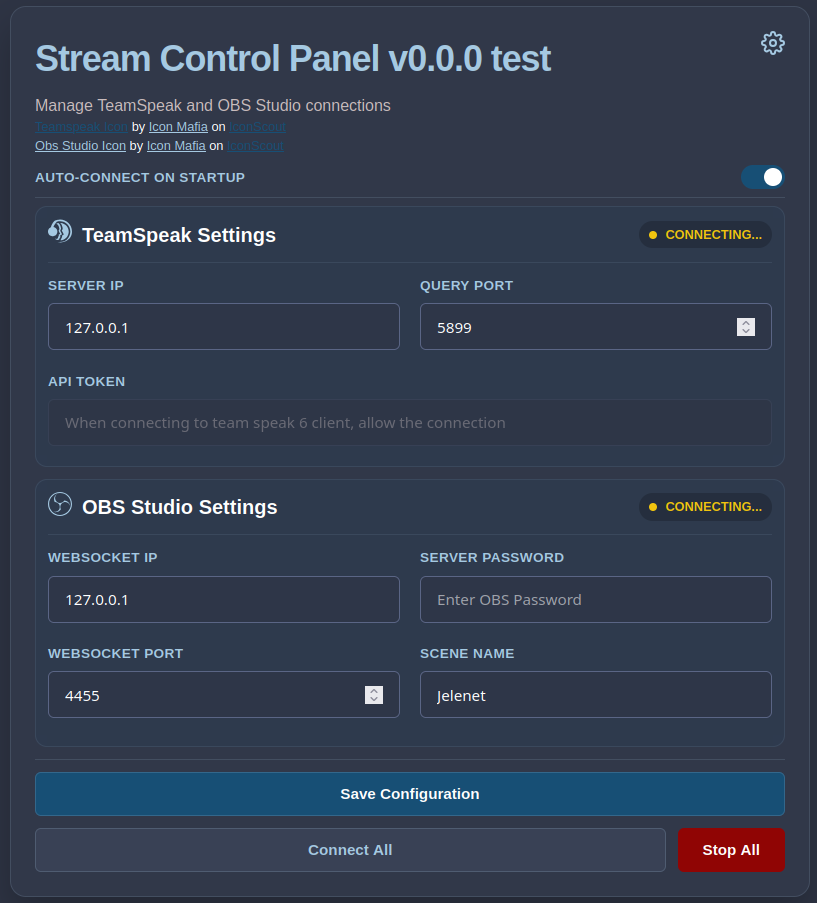
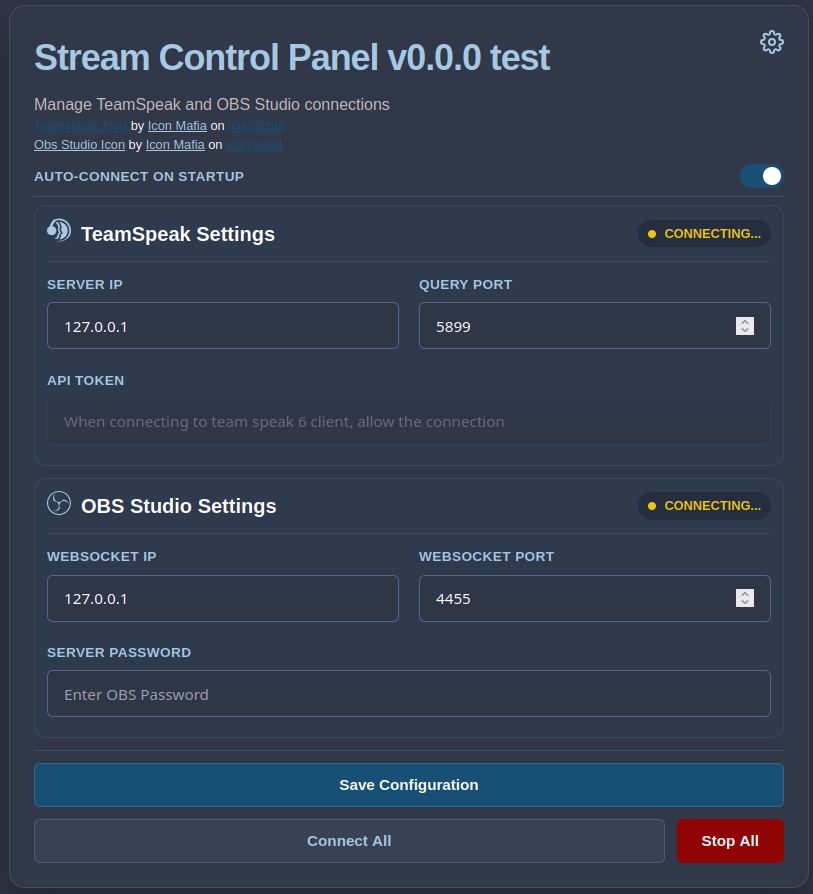
Removed unneeded scene name from the OBS settings

diff --git a/src/modules/WebUI/templates/index.html b/src/modules/WebUI/templates/index.html
@@ -71,7 +71,7 @@
             <section class="config-section">
                 <div class="section-title-container">
                     <div class="section-title">
-                        <a href="/obs", target="_blank">
+                        <a href="/obs" target="_blank">
                             <svg class="icon" xmlns="http://www.w3.org/2000/svg">
                                 <path fill="currentColor" d="M12,24C5.383,24,0,18.617,0,12S5.383,0,12,0s12,5.383,12,12S18.617,24,12,24z M12,1.109 C5.995,1.109,1.11,5.995,1.11,12C1.11,18.005,5.995,22.89,12,22.89S22.89,18.005,22.89,12C22.89,5.995,18.005,1.109,12,1.109z M6.182,5.99c0.352-1.698,1.503-3.229,3.05-3.996c-0.269,0.273-0.595,0.483-0.844,0.78c-1.02,1.1-1.48,2.692-1.199,4.156 c0.355,2.235,2.455,4.06,4.732,4.028c1.765,0.079,3.485-0.937,4.348-2.468c1.848,0.063,3.645,1.017,4.7,2.548 c0.54,0.799,0.962,1.736,0.991,2.711c-0.342-1.295-1.202-2.446-2.375-3.095c-1.135-0.639-2.529-0.802-3.772-0.425 c-1.56,0.448-2.849,1.723-3.293,3.293c-0.377,1.25-0.216,2.628,0.377,3.772c-0.825,1.429-2.315,2.449-3.932,2.756 c-1.244,0.261-2.551,0.059-3.709-0.464c1.036,0.302,2.161,0.355,3.191-0.011c1.381-0.457,2.522-1.567,3.024-2.935 c0.556-1.49,0.345-3.261-0.591-4.54c-0.7-1.007-1.803-1.717-3.002-1.969c-0.38-0.068-0.764-0.098-1.148-0.134 c-0.611-1.231-0.834-2.66-0.528-3.996L6.182,5.99z"></path>
                             </svg>
@@ -85,28 +85,17 @@
                 </div>
 
                 <div class="form-grid">
-                    <div class="form-grid">
-                        <div class="form-group">
-                            <label for="obs_ip">WebSocket IP</label>
-                            <input type="text" id="obs_ip" name="obs_ip" placeholder="127.0.0.1" class="form-input">
-                        </div>
-
-                        <div class="form-group">
-                            <label for="obs_port">WebSocket Port</label>
-                            <input type="number" id="obs_port" name="obs_port" placeholder="4455" class="form-input">
-                        </div>
+                    <div class="form-group">
+                        <label for="obs_ip">WebSocket IP</label>
+                        <input type="text" id="obs_ip" name="obs_ip" placeholder="127.0.0.1" class="form-input">
                     </div>
-
-                    <div class="form-grid">
-                        <div class="form-group">
-                            <label for="obs_password">Server Password</label>
-                            <input type="password" id="obs_password" name="obs_password" placeholder="Enter OBS Password" class="form-input">
-                        </div>
-
-                        <div class="form-group">
-                            <label for="obs_scene">Scene Name</label>
-                            <input type="text" id="obs_scene" name="obs_scene" placeholder="Scene" class="form-input">
-                        </div>
+                    <div class="form-group">
+                        <label for="obs_port">WebSocket Port</label>
+                        <input type="number" id="obs_port" name="obs_port" placeholder="4455" class="form-input">
+                    </div>
+                    <div class="form-group full-width">
+                        <label for="obs_password">Server Password</label>
+                        <input type="password" id="obs_password" name="obs_password" placeholder="Enter OBS Password" class="form-input">
                     </div>
                 </div>
             </section>

diff --git a/src/modules/WebUI/static/script.js b/src/modules/WebUI/static/script.js
@@ -53,7 +53,7 @@ async function loadSettings() {
 
     const fields = [
         'teamspeak_ip', 'teamspeak_port', 'teamspeak_api',
-        'obs_ip', 'obs_port', 'obs_password', 'obs_scene'
+        'obs_ip', 'obs_port', 'obs_password'
     ];
 
     fields.forEach(fieldId => {
@@ -81,11 +81,9 @@ async function saveSettings() {
     const payload = {
         teamspeak_ip: document.getElementById('teamspeak_ip').value || document.getElementById('teamspeak_ip').placeholder,
         teamspeak_port: parseInt(document.getElementById('teamspeak_port').value || document.getElementById('teamspeak_port').placeholder, 10),
-        teamspeak_api: document.getElementById('teamspeak_api').value,
         obs_ip: document.getElementById('obs_ip').value || document.getElementById('obs_ip').placeholder,
         obs_port: parseInt(document.getElementById('obs_port').value || document.getElementById('obs_port').placeholder, 10),
         obs_password: document.getElementById('obs_password').value,
-        obs_scene: document.getElementById('obs_scene').value,
         autoconnect: document.getElementById('autoconnect').checked
     };
 

diff --git a/src/modules/Database.py b/src/modules/Database.py
@@ -6,7 +6,7 @@ from . import Settings
 class Database(DBManager):
     @property
     def current_version(self) -> Version:
-        return Version(0, 0, 3)
+        return Version(0, 0, 4)
 
     @DBManager.async_database_safe
     @DBManager.async_during_init
@@ -21,7 +21,7 @@ class Database(DBManager):
                 )
                 await self.db.commit()
                 version = Version(0, 0, 2)
-            elif version == Version(0, 0, 2):
+            if version == Version(0, 0, 2):
                 await self.db.execute(
                     """ALTER TABLE settings ADD COLUMN host TEXT DEFAULT '127.0.0.1';"""
                 )
@@ -30,6 +30,12 @@ class Database(DBManager):
                 )
                 await self.db.commit()
                 version = Version(0, 0, 3)
+            if version == Version(0, 0, 3):
+                await self.db.execute(
+                    """ALTER TABLE settings DROP COLUMN obs_scene"""
+                )
+                await self.db.commit()
+                version = Version(0, 0, 4)
         return True
 
     @DBManager.async_database_safe
@@ -46,7 +52,6 @@ class Database(DBManager):
                 obs_ip TEXT NOT NULL UNIQUE,
                 obs_port INTEGER NOT NULL,
                 obs_password TEXT NOT NULL,
-                obs_scene TEXT NOT NULL,
                 autoconnect INTEGER DEFAULT 0,
                 host TEXT DEFAULT '127.0.0.1',
                 port INTEGER DEFAULT 12345
@@ -60,7 +65,7 @@ class Database(DBManager):
     @DBManager.async_timed
     async def get_settings(self) -> Settings | None:
         result = await self.db.execute_fetchall(
-            f"""SELECT teamspeak_ip, teamspeak_port, teamspeak_api, obs_ip, obs_port, obs_password, obs_scene, autoconnect, host, port FROM settings"""
+            f"""SELECT teamspeak_ip, teamspeak_port, teamspeak_api, obs_ip, obs_port, obs_password, autoconnect, host, port FROM settings"""
         )
         if len(result) == 0: return None
         return Settings(
@@ -70,18 +75,17 @@ class Database(DBManager):
             obs_ip=result[0][3],
             obs_port=result[0][4],
             obs_password=result[0][5],
-            obs_scene=result[0][6],
-            autoconnect=result[0][7],
-            host=result[0][8],
-            port=result[0][9]
+            autoconnect=result[0][6],
+            host=result[0][7],
+            port=result[0][8]
         )
 
     @DBManager.async_database_safe
     @DBManager.async_timed
     async def upsert_settings(self, settings: Settings) -> bool:
         await self.db.execute(
-            f"""INSERT OR REPLACE INTO settings (teamspeak_ip, teamspeak_port, teamspeak_api, obs_ip, obs_port, obs_password, obs_scene, autoconnect, host, port)
-            VALUES (?, ?, ?, ?, ?, ?, ?, ?, ?, ?)
+            f"""INSERT OR REPLACE INTO settings (teamspeak_ip, teamspeak_port, teamspeak_api, obs_ip, obs_port, obs_password, autoconnect, host, port)
+            VALUES (?, ?, ?, ?, ?, ?, ?, ?, ?)
             """,
             (
                 settings.teamspeak_ip,
@@ -90,7 +94,6 @@ class Database(DBManager):
                 settings.obs_ip,
                 settings.obs_port,
                 settings.obs_password,
-                settings.obs_scene,
                 settings.autoconnect,
                 settings.host,
                 settings.port

diff --git a/src/modules/Settings.py b/src/modules/Settings.py
@@ -10,7 +10,6 @@ class Settings:
     obs_ip: str
     obs_port: int
     obs_password: str
-    obs_scene: str
     autoconnect: bool
     host: str
     port: int
@@ -24,7 +23,6 @@ class Settings:
             obs_ip = json["obs_ip"],
             obs_port = json["obs_port"],
             obs_password = json["obs_password"],
-            obs_scene = json["obs_scene"],
             autoconnect= bool(json.get("autoconnect", 0)),
             host=json.get("host", "127.0.0.1"),
             port=json.get("port", 12345)
@@ -38,7 +36,6 @@ class Settings:
             "obs_ip" : self.obs_ip,
             "obs_port" : self.obs_port,
             "obs_password" : self.obs_password,
-            "obs_scene" : self.obs_scene,
             "autoconnect" : self.autoconnect,
             "host": self.host,
             "port": self.port
@@ -51,9 +48,8 @@ class Settings:
             self.teamspeak_api != other.teamspeak_api,
             self.obs_ip != other.obs_ip or
             self.obs_port != other.obs_port or
-            self.obs_password != other.obs_password or
-            self.obs_scene != other.obs_scene
+            self.obs_password != other.obs_password
         )
 
     def __str__(self) -> str:
-        return f"Settings[teamspeak_ip: {self.teamspeak_ip} teamspeak_port: {self.teamspeak_port} teamspeak_api: {self.teamspeak_api} obs_ip: {self.obs_ip} obs_port: {self.obs_port} obs_password: {self.obs_password} obs_scene: {self.obs_scene} autoconnect: {self.autoconnect}, host: {self.host}, port: {self.port}]"
+        return f"Settings[teamspeak_ip: {self.teamspeak_ip} teamspeak_port: {self.teamspeak_port} teamspeak_api: {self.teamspeak_api} obs_ip: {self.obs_ip} obs_port: {self.obs_port} obs_password: {self.obs_password} autoconnect: {self.autoconnect} host: {self.host} port: {self.port}]"

diff --git a/src/modules/OBS/OBSConnector.py b/src/modules/OBS/OBSConnector.py
@@ -18,7 +18,6 @@ from .. import UserStatus, BaseConnector, async_wrapped
 
 class OBSConnector(BaseConnector):
     __logger: Logger
-    scene: str
     user_scenes: Dict[str, SceneItem] = {}
     requested_states: Dict[str, UserStatus] = {}
     stop_event: Event = Event()
@@ -100,11 +99,10 @@ class OBSConnector(BaseConnector):
         return response
 
     @async_wrapped
-    async def connect(self, obs_ip: str, obs_port: int, obs_password: str, obs_scene: str) -> bool:
+    async def connect(self, obs_ip: str, obs_port: int, obs_password: str) -> bool:
         self.stop_event.clear()
         self.message_queue = Queue()
-        self.logger.info(f"Connecting to OBS on ws://{obs_ip}:{obs_port} with scene: {obs_scene}")
-        self.scene = obs_scene
+        self.logger.info(f"Connecting to OBS on ws://{obs_ip}:{obs_port}")
         self.websocket = await connect(f"ws://{obs_ip}:{obs_port}/websockets")
         create_task(self.retrieve_loop(), name="OBS retrieve task")
         create_task(self.watchdog_loop(), name="OBS watchdog task")

diff --git a/src/bridge.py b/src/bridge.py
@@ -111,8 +111,7 @@ class Bridge:
         return await  self.obs_connector.connect(
             obs_ip=self.settings.obs_ip,
             obs_port=self.settings.obs_port,
-            obs_password=self.settings.obs_password,
-            obs_scene=self.settings.obs_scene
+            obs_password=self.settings.obs_password
         )
 
     async def re_init_obs(self) -> None:

diff --git a/README.md b/README.md
@@ -9,7 +9,7 @@ When started, a web UI will be hosted on http://127.0.0.1:12345.
 
 ![main_page](resources/main_page.png)
 
-If the ports and IPs are correct, you just need to fill in the password and the scene name for OBS.
+If the ports and IPs are correct, you just need to fill in the password for OBS.
 
 ## Auto-connect
 With the auto-connect toggle, you can enable the autoconnection to the setup OBS and Team Speak websocket.
